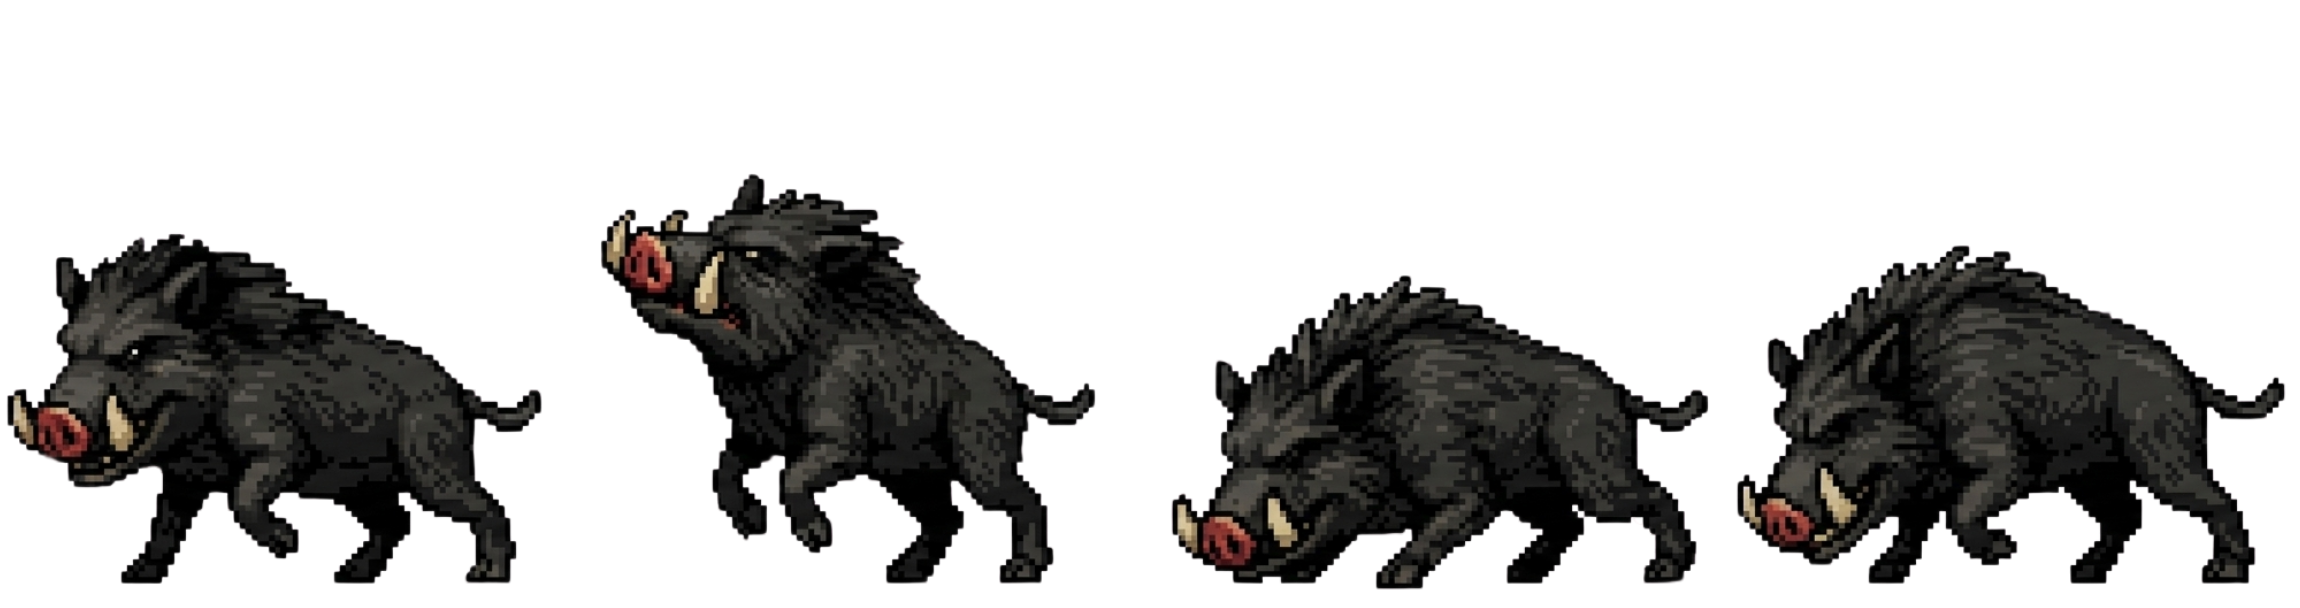
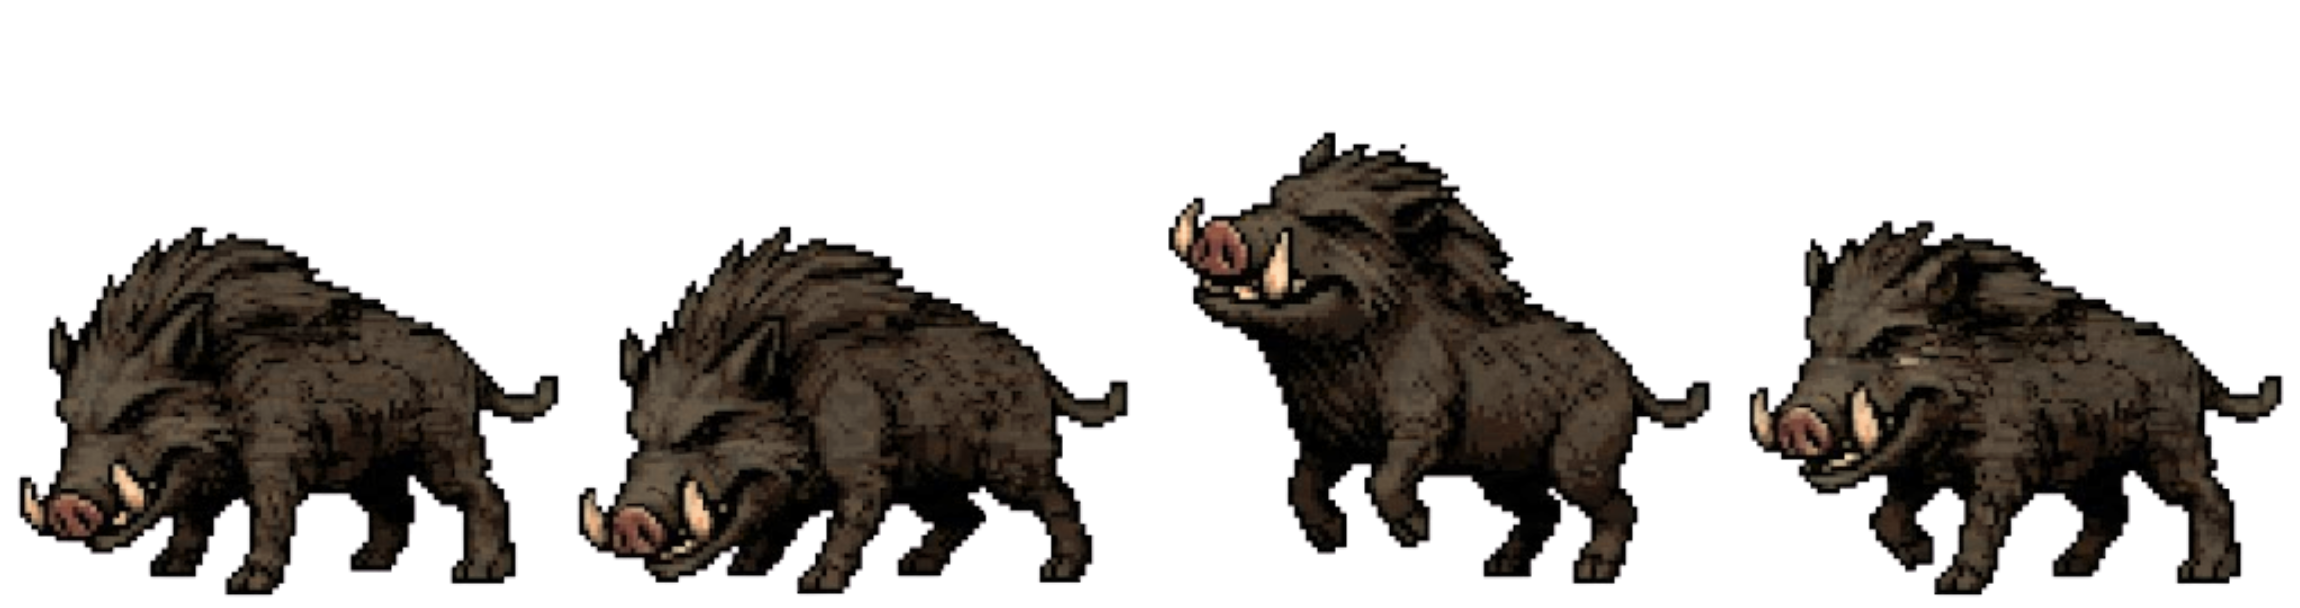
arreglo bugs de cambio de nivel y arreglo los assets de los enemigos

diff --git a/client/scenes/levelBase.js b/client/scenes/levelBase.js
@@ -296,7 +296,7 @@ function drawLevel(ctx, canvas, deltaTime){
     for(let i = 0; i < worldWidth; i += canvas.width){  //duplicate the background image to fill the whole world
         ctx.drawImage(backgroundImage, i - cameraX, 0, canvas.width, canvas.height); }
 
-    if(!isPaused && (!cardSystem.isActive || !showDeckPreview) 
+    if(!isPaused && (!cardSystem.isActive || showDeckPreview) 
         && !spikesWarningBox.visible && !gameOver){  //only run game logic when not paused, not between levels, and no card menu is open
         updateLevel(deltaTime);
     }

diff --git a/client/libs/levelConfig.js b/client/libs/levelConfig.js
@@ -90,7 +90,8 @@ export function getLevelConfig(level) {
             walkLeftSrc: `./assets/enemy${level}/walkLeft.png`,
             attackRightSrc: `./assets/enemy${level}/attackRight.png`,
             attackLeftSrc: `./assets/enemy${level}/attackLeft.png`,
-            deathSrc: `./assets/enemy${level}/death.png`,
+            deathLeftSrc: `./assets/enemy${level}/deathLeft.png`,
+            deathRightSrc: `./assets/enemy${level}/deathRight.png`,
         },
 
         spawnPositions: [
